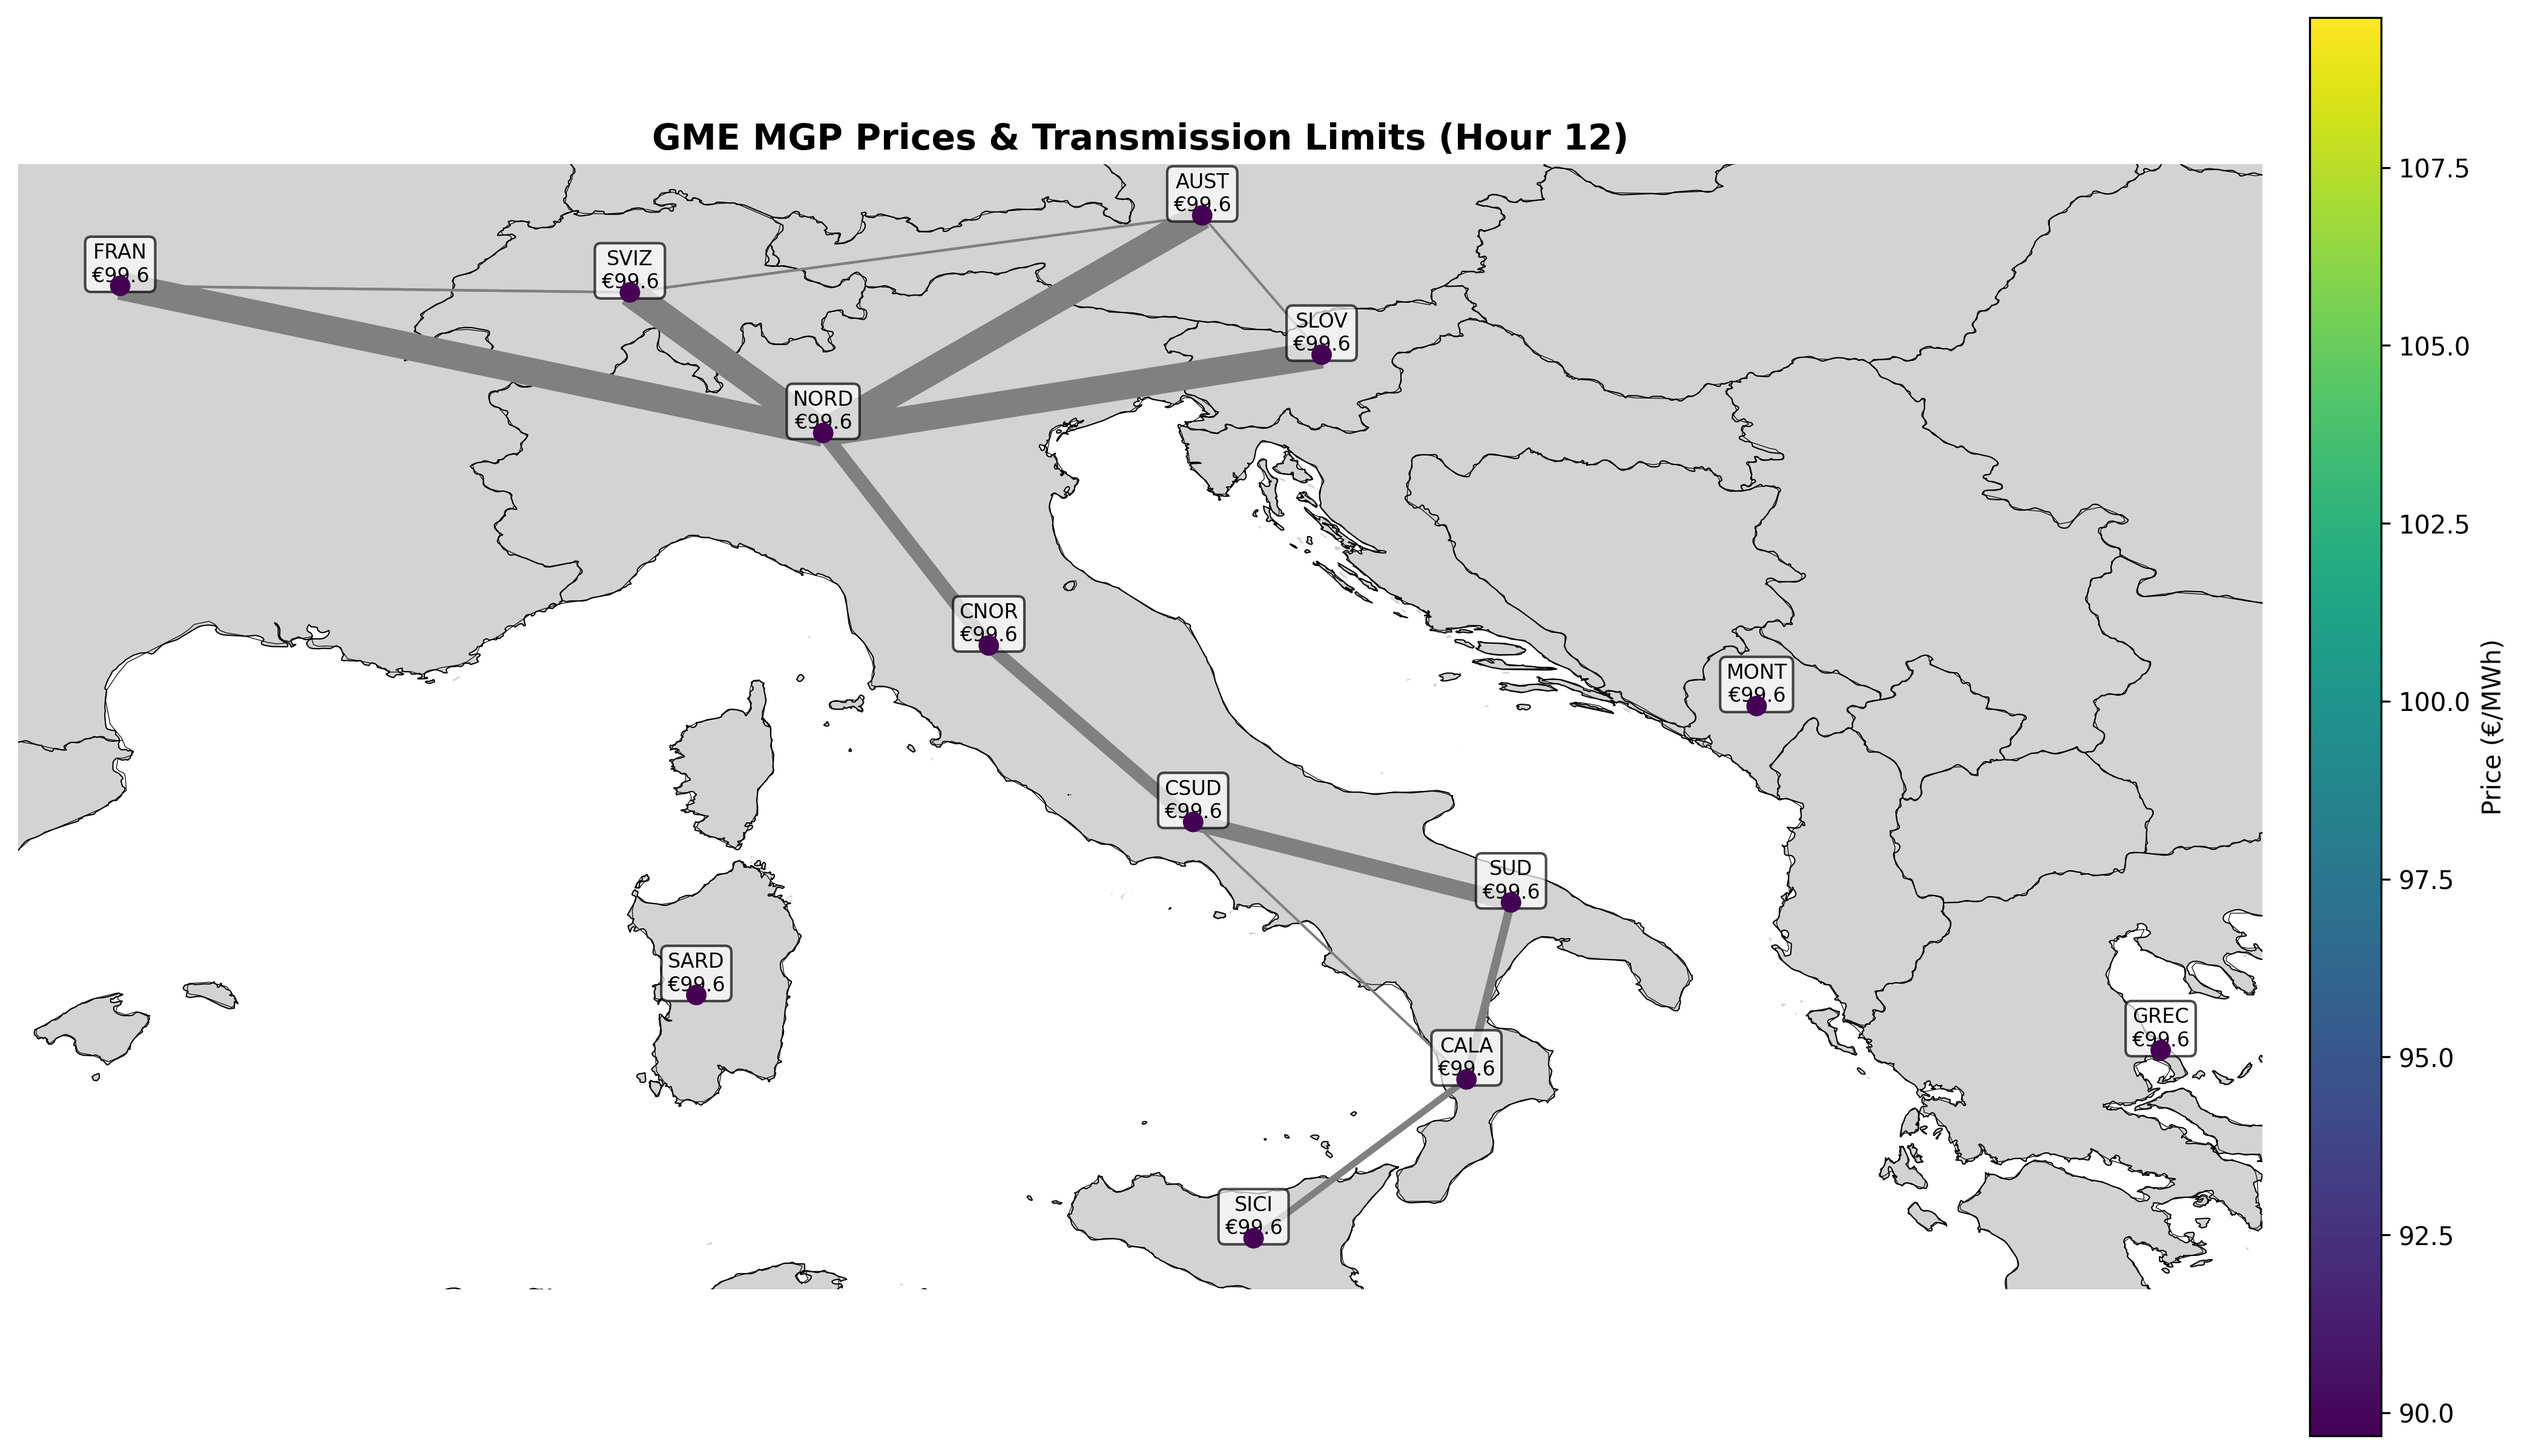
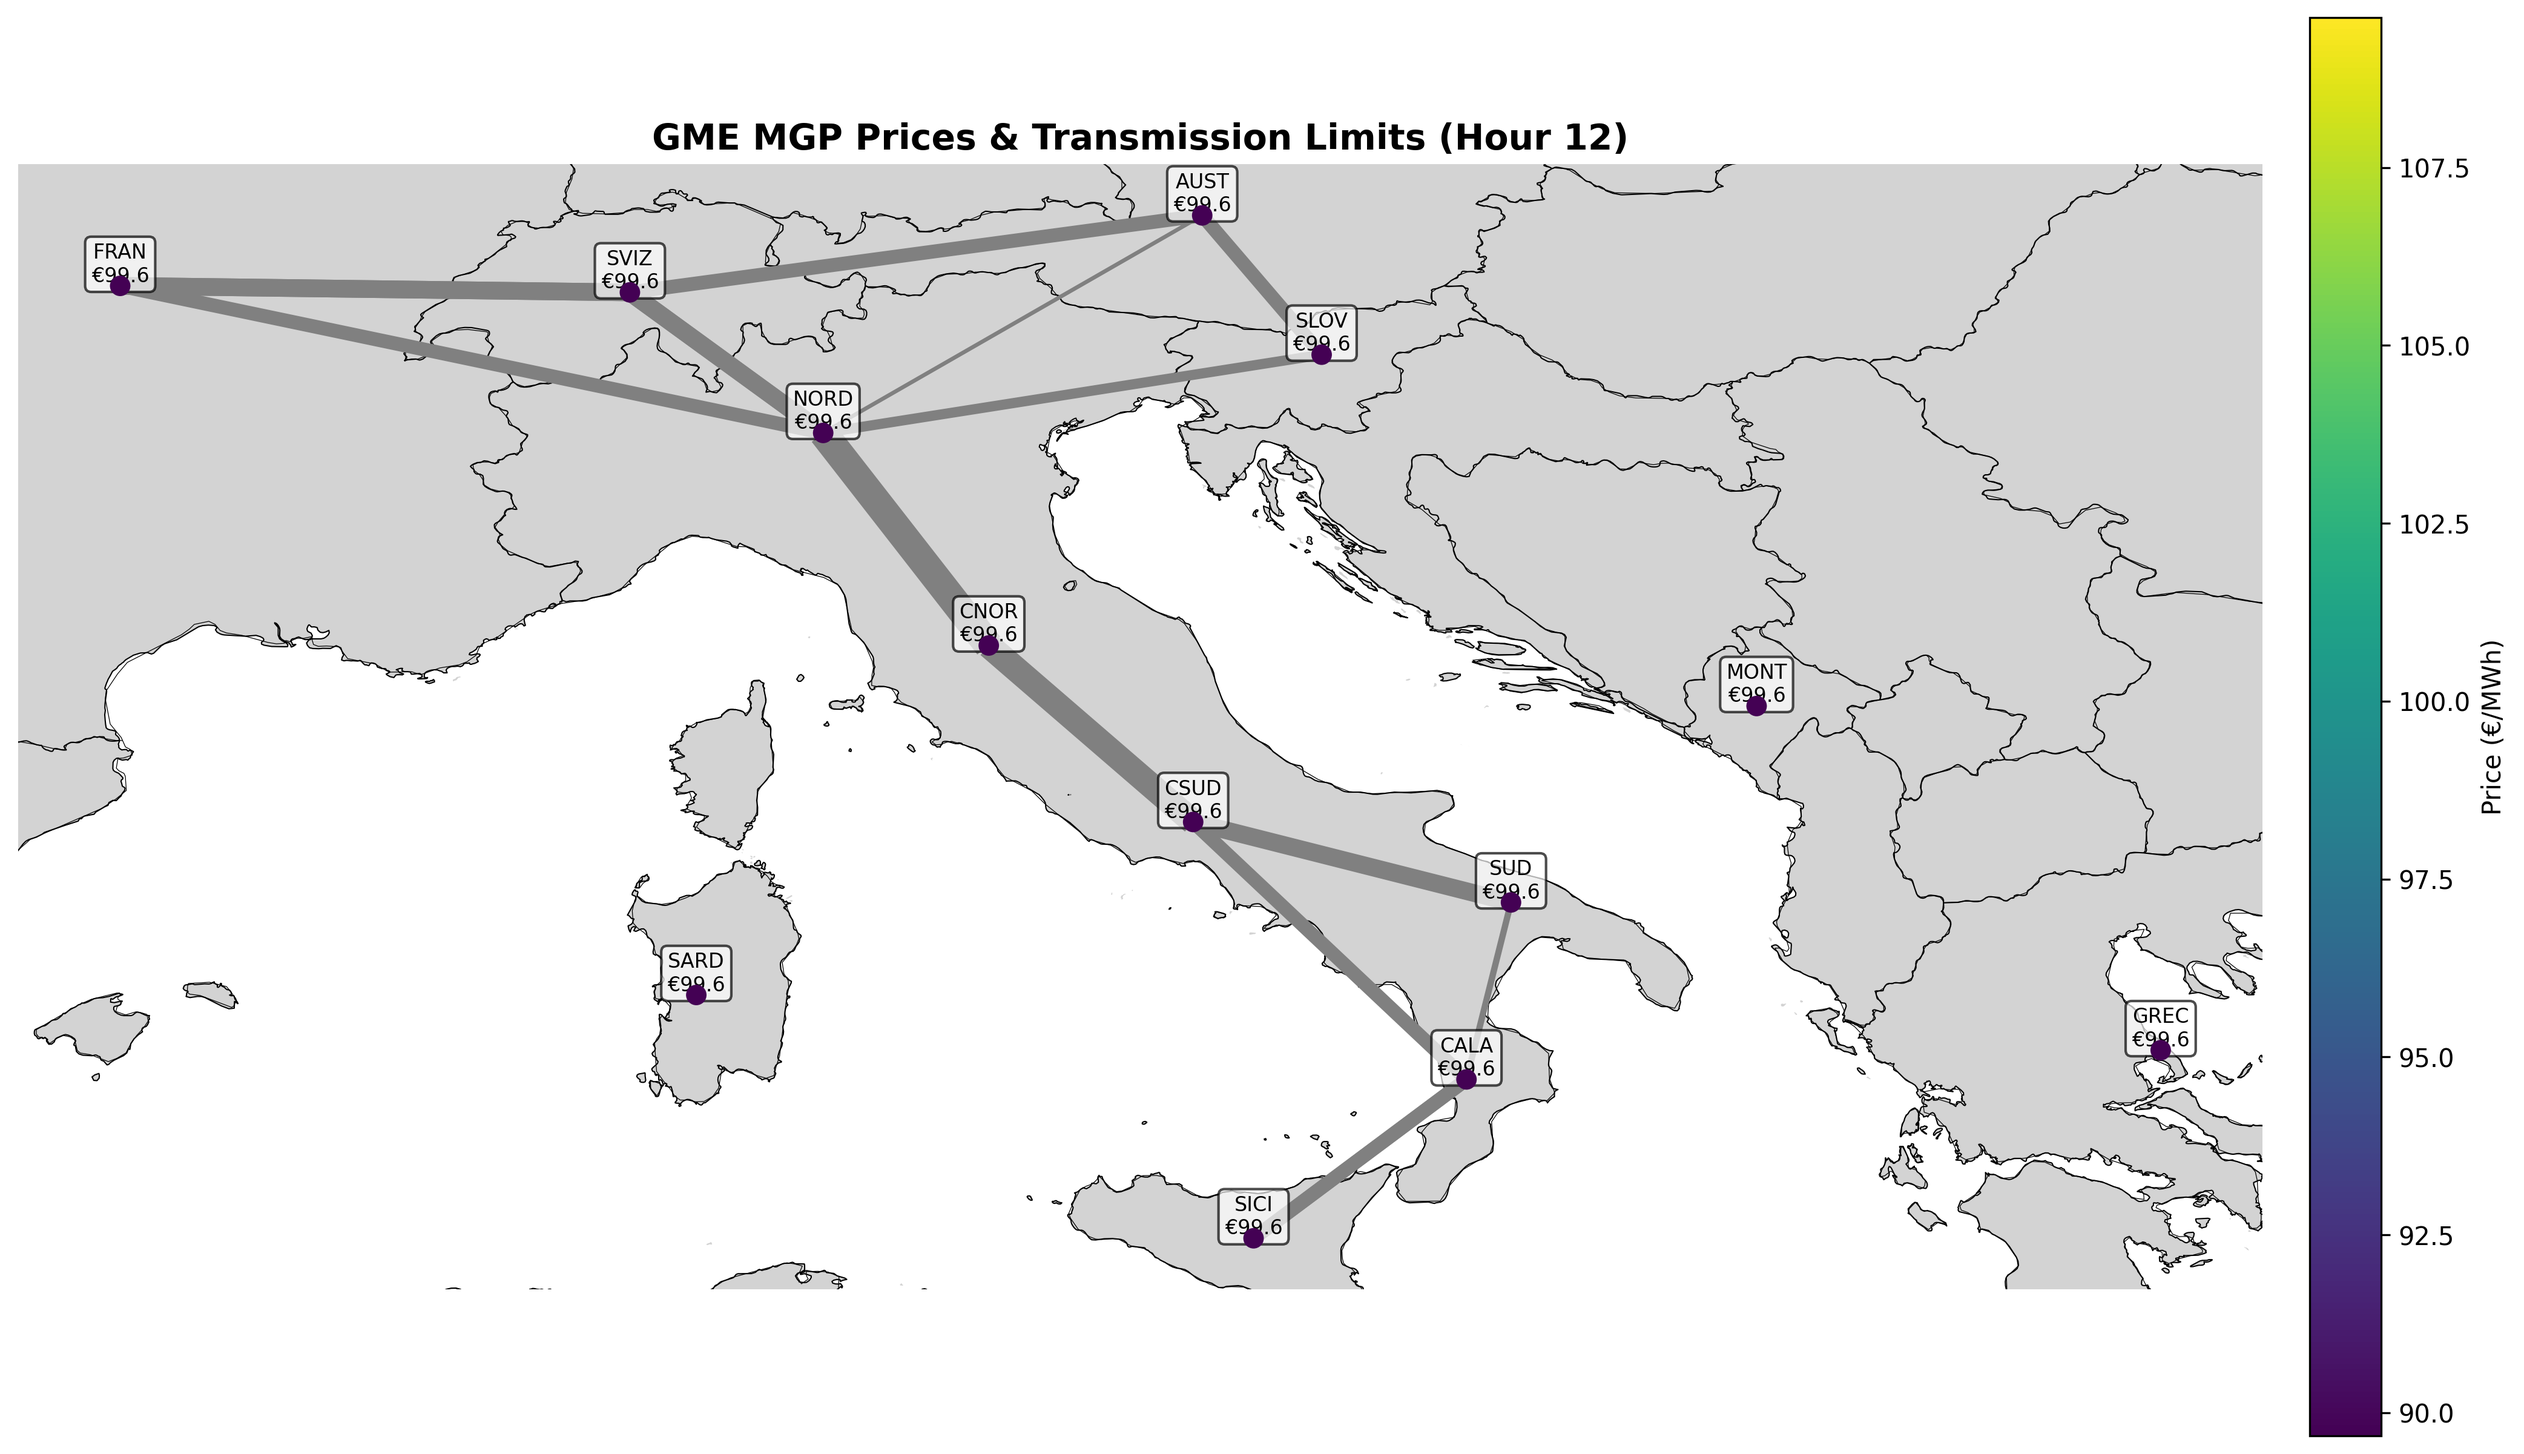
Fix: Use PyPSA-Eur physical capacities instead of GME market limits for line widths

diff --git a/plot_mgp_pypsa_eur.py b/plot_mgp_pypsa_eur.py
@@ -50,23 +50,11 @@ def plot_mgp_data(network_path, price_csv, limit_csv, hour=12):
                     if itz in n.buses.index and n.buses.at[itz, 'marginal_price'] == 0:
                         n.buses.at[itz, 'marginal_price'] = price
 
-    # Map limits to lines
-    # Aggregated network lines might be differently named. 
-    # Usually they connect the same zones if from/to matches bus names.
-    n.lines['s_nom'] = 1.0 # Default fallback width
-    
-    for idx, row in h_limits.iterrows():
-        f_zone = str(row['from']).strip()
-        t_zone = str(row['to']).strip()
-        
-        # In PyPSA network, checks lines between these buses
-        mask = ((n.lines.bus0 == f_zone) & (n.lines.bus1 == t_zone)) | \
-               ((n.lines.bus0 == t_zone) & (n.lines.bus1 == f_zone))
-        
-        if mask.any():
-            cap = max(float(row['maxtransmissionlimitfrom']), float(row['maxtransmissionlimitto']))
-            n.lines.loc[mask, 's_nom'] = cap
-            print(f"Line {f_zone}-{t_zone} capacity set to {cap} MW")
+    # Use PyPSA-Eur line capacities (s_nom) - these are already in the network
+    # GME limits are market-based, not physical capacities
+    print(f"\nUsing PyPSA-Eur line capacities (s_nom):")
+    for idx, row in n.lines.iterrows():
+        print(f"  {idx}: {row.s_nom:.0f} MW ({row.n_lines} lines aggregated)")
 
     # Plotting
     print("\nGenerating plot...")
